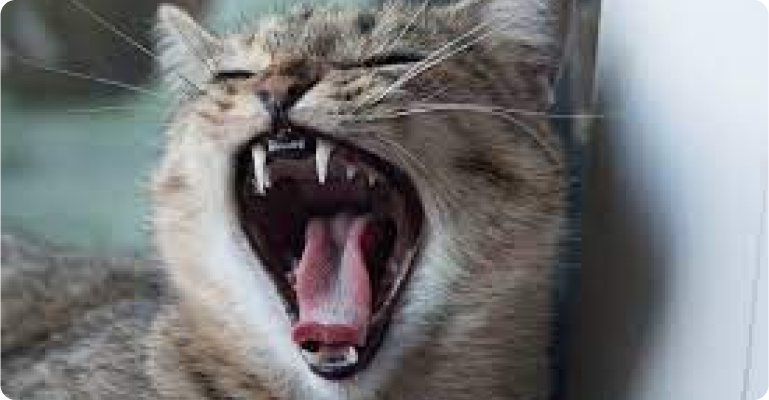
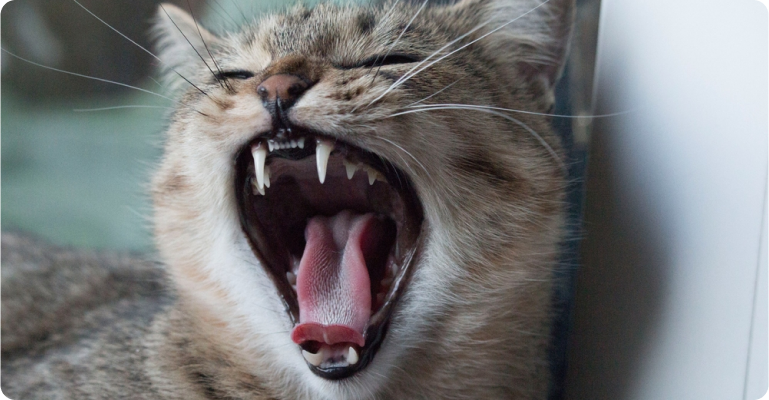
post 5 feito e imagens de melhor qualidade

diff --git a/Posts/post5.html b/Posts/post5.html
@@ -1,0 +1,354 @@
+<!DOCTYPE html>
+<html lang="pt-br">
+  <head>
+    <meta charset="UTF-8" />
+    <meta name="viewport" content="width=device-width, initial-scale=1" />
+    <link
+      href="https://cdn.jsdelivr.net/npm/bootstrap@5.3.1/dist/css/bootstrap.min.css"
+      rel="stylesheet"
+    />
+    <script src="https://cdn.jsdelivr.net/npm/bootstrap@5.3.1/dist/js/bootstrap.bundle.min.js"></script>
+    <link rel="stylesheet" href="../css/Style.css" />
+    <!-- CSS EXTERNO GERAL -->
+    <link rel="stylesheet" href="../css/StylePost.css" />
+    <!-- CSS EXTERNO PAGINA -->
+    <link rel="icon" href="../img/Logo/Inclusipet.ico" />
+    <!-- ICON -->
+    <title>Alergias em Animais de Estimação</title>
+  </head>
+  <body>
+    <!-- HEADER-->
+    <header class="header">
+      <div class="container container__header">
+        <a href="../index.html">
+          <img
+            src="../img/Logo/Inclusipet.png"
+            alt="Logo Inclusipet"
+            class="logo__header"
+          />
+        </a>
+        <ul class="menu__header">
+          <li>
+            <a href="../sobrenos.html" class="links__header a-under"
+              >Sobre Nós</a
+            >
+          </li>
+          <li>
+            <a href="../serviços.html" class="links__header a-under"
+              >Serviços</a
+            >
+          </li>
+          <li>
+            <a href="../unidades.html" class="links__header a-under"
+              >Unidades</a
+            >
+          </li>
+          <li>
+            <a href="../blog.html" class="links__header pagatual">Blog</a>
+          </li>
+          <li>
+            <a href="../contatos.html" class="links__header a-under"
+              >Contatos</a
+            >
+          </li>
+          <li>
+            <a href="../login.html"
+              ><img
+                src="../img/Contatos/Login.png"
+                alt="Login"
+                class="login__header"
+            /></a>
+          </li>
+        </ul>
+        <button class="barra__header">
+          <svg
+            xmlns="http://www.w3.org/2000/svg"
+            fill="none"
+            viewBox="0 0 24 24"
+            stroke-width="1.5"
+            stroke="currentColor"
+          >
+            <path
+              stroke-linecap="round"
+              stroke-linejoin="round"
+              d="M3.75 6.75h16.5M3.75 12h16.5m-16.5 5.25h16.5"
+            />
+          </svg>
+        </button>
+        <div class="dropdown__header">
+          <li>
+            <a href="../sobrenos.html" class="links__header">Sobre Nós</a>
+          </li>
+          <li>
+            <a href="../serviços.html" class="links__header">Serviços</a>
+          </li>
+          <li>
+            <a href="../unidades.html" class="links__header">Unidades</a>
+          </li>
+          <li>
+            <a href="../blog.html" class="links__header">Blog</a>
+          </li>
+          <li>
+            <a href="../contatos.html" class="links__header">Contatos</a>
+          </li>
+          <li>
+            <div
+              class="botao-solido-branco"
+              onclick="location.href='../login.html'"
+              type="button"
+            >
+              Cadastro
+            </div>
+          </li>
+        </div>
+      </div>
+    </header>
+    <script>
+      const barra__header = document.querySelector(".barra__header");
+      const dropdown__header = document.querySelector(".dropdown__header");
+
+      barra__header.onclick = function () {
+        dropdown__header.classList.toggle("open");
+      };
+    </script>
+    <!--Conteudo-->
+
+    <div class="container container__post">
+      <div class="container__titulo">
+        <a href="../blog.html" class="link"
+          >Blog
+          <svg
+            xmlns="http://www.w3.org/2000/svg"
+            fill="none"
+            viewBox="0 0 24 24"
+            stroke="currentColor"
+            class="seta__link"
+          >
+            <path
+              stroke-linecap="round"
+              stroke-linejoin="round"
+              d="M8.25 4.5l7.5 7.5-7.5 7.5"
+            />
+          </svg>
+          Cuidados
+        </a>
+        <div class="titulo titulo-pagina">
+          A Importância das Vacinas para<br />
+          a Saúde dos Animais
+        </div>
+      </div>
+      <div class="img_header">
+        <img src="../img/Blog/Blog5.png" alt="Gato tomando vacina" />
+      </div>
+      <div class="content">
+        <div class="titulo">Introdução</div>
+        <p>
+          A saúde dos animais de estimação é uma preocupação fundamental para
+          seus tutores dedicados, e uma das maneiras mais eficazes de garantir
+          essa saúde é por meio da vacinação adequada. As vacinas desempenham um
+          papel crucial na prevenção de doenças, protegendo não apenas os
+          animais individuais, mas também contribuindo para a saúde geral da
+          comunidade animal. Este artigo explora a importância das vacinas para
+          a saúde dos animais, destacando os benefícios e impactos positivos
+          dessa prática essencial.
+        </p>
+
+        <div class="img">
+          <img src="../img/Artigo/Blog5.png" alt="Cachorro tomando vacina" />
+          <div class="side-bar">
+            <strong> Cachorro tomando vacina </strong>
+          </div>
+        </div>
+
+        <strong>1. Prevenção de Doenças Contagiosas:</strong>
+        <p>
+          As vacinas são projetadas para proteger os animais contra uma
+          variedade de doenças contagiosas, muitas das quais podem ser graves e
+          até mesmo fatais. Ao estimular a resposta imunológica do animal, as
+          vacinas ajudam a prevenir a propagação de doenças como a parvovirose
+          em cães e a rinotraqueíte felina em gatos.
+        </p>
+
+        <strong>2. Proteção da População Animal:</strong>
+        <p>
+          A vacinação não beneficia apenas os animais individualmente, mas
+          também desempenha um papel crucial na proteção da população animal
+          como um todo. A imunização em massa contribui para a criação de uma
+          barreira protetora, reduzindo a prevalência de doenças em comunidades
+          de animais, como canis, abrigos e parques.
+        </p>
+
+        <strong>3. Prevenção de Complicações Graves:</strong>
+        <p>
+          Doenças evitáveis por meio de vacinas podem levar a complicações
+          graves e custosas. A imunização eficaz reduz o risco de desenvolver
+          condições médicas severas, tais como complicações cardíacas, renais ou
+          pulmonares.
+        </p>
+
+        <strong>4. Economia em Custos de Tratamento:</strong>
+        <p>
+          Prevenir doenças através da vacinação é uma abordagem econômica. O
+          custo associado ao tratamento de doenças evitáveis é geralmente
+          significativamente mais alto do que o investimento em um programa de
+          vacinação.
+        </p>
+
+        <strong>5. Promoção da Saúde Pública:</strong>
+        <p>
+          Algumas doenças animais podem ser transmitidas aos humanos, conhecidas
+          como zoonoses. A vacinação adequada em animais não apenas protege
+          esses animais, mas também desempenha um papel crítico na prevenção da
+          transmissão dessas doenças aos seres humanos, contribuindo para a
+          saúde pública.
+        </p>
+
+        <strong>6. Requisito para Viagens Internacionais:</strong>
+        <p>
+          Em um mundo globalizado, a vacinação muitas vezes se torna um
+          requisito para viagens internacionais com animais de estimação. Isso
+          não apenas protege o próprio animal, mas também evita a disseminação
+          de doenças entre países.
+        </p>
+
+        <strong>7. Longevidade e Qualidade de Vida::</strong>
+        <p>
+          Animais devidamente vacinados têm maior probabilidade de viver vidas
+          mais longas e saudáveis. A prevenção de doenças permite que eles
+          desfrutem de uma melhor qualidade de vida, com menos preocupações
+          relacionadas à saúde.
+        </p>
+
+        <strong>8. Conformidade com Leis Locais e Regulamentações:</strong>
+        <p>
+          Em muitas regiões, a vacinação de animais de estimação é um requisito
+          legal. Cumprir essas regulamentações não apenas evita penalidades, mas
+          também contribui para a segurança da comunidade animal.
+        </p>
+
+        <p>
+          Em resumo, as vacinas desempenham um papel crucial na promoção da
+          saúde e bem-estar dos animais de estimação. Ao garantir que seus
+          animais estejam atualizados nas vacinas recomendadas pelo veterinário,
+          você está fazendo uma escolha responsável e solidária para proteger
+          não apenas seus companheiros peludos, mas também a comunidade animal
+          como um todo.
+        </p>
+
+        <div class="compartilhar">
+          <strong> Compartilhe o post </strong>
+          <div class="compartilha">
+            <div class="redes">
+              <img
+                class="rede"
+                src="../img/Artigo/Link.png"
+                alt="Copiar para área de trasnferência"
+                href=""
+              />
+              <img class="rede" src="../img/Contatos/instagram.png"
+              alt="Instagram" href="https://www.instagram.com/inclusipet/"" />
+              <img
+                class="rede"
+                src="../img/Contatos/twitter.png"
+                alt="Twitter"
+                href="https://twitter.com/InclusiPet23?t=sUSZebJOD0wUFlcThrDaJw&s=09"
+              />
+              <img
+                class="rede"
+                src="../img/Contatos/facebook.png"
+                alt="Facebook"
+                href="https://www.facebook.com/profile.php?id=61553182305622&mibextid=ZbWKwL"
+              />
+            </div>
+            <div class="categorias">
+              <div class="categoria">Cuidados</div>
+              <div class="categoria">Qualquer Espécie</div>
+            </div>
+          </div>
+        </div>
+        <div class="hr"></div>
+      </div>
+    </div>
+
+    <!-- FOOTER -->
+    <footer class="footer">
+      <div class="container container__footer">
+        <div class="section__footer section-logo__footer">
+          <a href="../index.html" class="logo-wrapper__footer"
+            ><img
+              src="../img/Logo/Inclusipet.png"
+              alt="Logo Inclusipet"
+              class="logo__footer"
+          /></a>
+        </div>
+        <div class="section__footer section__footer-links">
+          <ul class="menu__footer">
+            <li>
+              <a href="../sobrenos.html" class="links__footer a-under"
+                >Sobre Nós</a
+              >
+            </li>
+            <li>
+              <a href="../serviços.html" class="links__footer a-under"
+                >Serviços</a
+              >
+            </li>
+            <li>
+              <a href="../unidades.html" class="links__footer a-under"
+                >Unidades</a
+              >
+            </li>
+            <li>
+              <a href="../blog.html" class="links__footer a-under">Blog</a>
+            </li>
+            <li>
+              <a href="../contatos.html" class="links__footer a-under"
+                >Contato</a
+              >
+            </li>
+          </ul>
+        </div>
+        <div class="section__footer">
+          <ul class="menu__footer">
+            <li>
+              <a
+                href="https://www.instagram.com/inclusipet/"
+                class="links__footer"
+                ><img
+                  src="../img/Contatos/instagram.png"
+                  alt="Instagram"
+                  class="rede-social"
+              /></a>
+            </li>
+            <li>
+              <a
+                href="https://twitter.com/InclusiPet23?t=sUSZebJOD0wUFlcThrDaJw&s=09"
+                class="links__footer"
+                ><img
+                  src="../img/Contatos/twitter.png"
+                  alt="twitter"
+                  class="rede-social"
+              /></a>
+            </li>
+            <li>
+              <a
+                href="https://www.facebook.com/profile.php?id=61553182305622&mibextid=ZbWKwL"
+                class="links__footer"
+                ><img
+                  src="../img/Contatos/facebook.png"
+                  alt="Facebook"
+                  class="rede-social"
+              /></a>
+            </li>
+          </ul>
+        </div>
+      </div>
+      <div class="container container__footer">
+        <div class="hr-footer"></div>
+      </div>
+      <div class="container container__footer">
+        ®2023 Inclusipet. Todos os direitos reservados.
+      </div>
+    </footer>
+  </body>
+</html>
